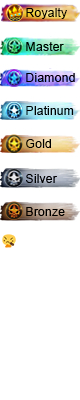
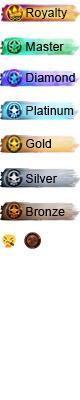
Flair

Changed region(s): [[0.3, 0.57, 0.525, 0.63]]

diff --git a/CSS/Stylesheet.css b/CSS/Stylesheet.css
@@ -1894,7 +1894,7 @@ div.tagline > .flair-hidden {
 /* Linkflair Selector */
 
 .flairselector {
-    max-width: 150px;
+    max-width: 120px;
     margin-left: 210px;
     margin-top: 15px;
 }
@@ -2001,6 +2001,9 @@ div.tagline > .flair-hidden {
     background-repeat: no-repeat;
     border: none;
     color: #5f5f5f !important;
+    text-indent: 100%;
+    white-space: nowrap;
+    overflow: hidden;
     font-weight: bold;
     height: 20px;
     width: 80px;
@@ -2069,6 +2072,13 @@ div.tagline > .flair-hidden {
     width: 20px ;
 }
 
+.flair-currency {
+    background-color: rgba(226, 226, 226, 0) ;
+    background-position-y: -230px ;
+    background-position-x: -19px;
+    height: 12px ;
+    width: 20px ;
+}
 
 /*Devs flairs*/
 
